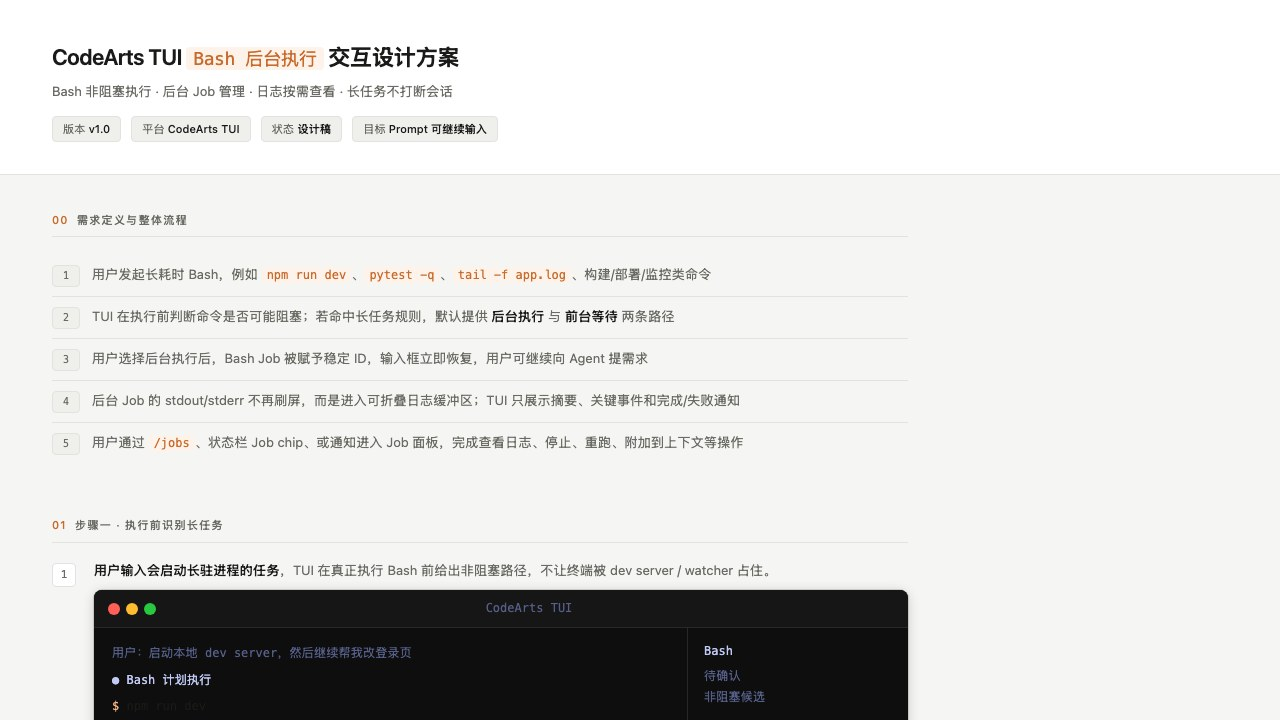
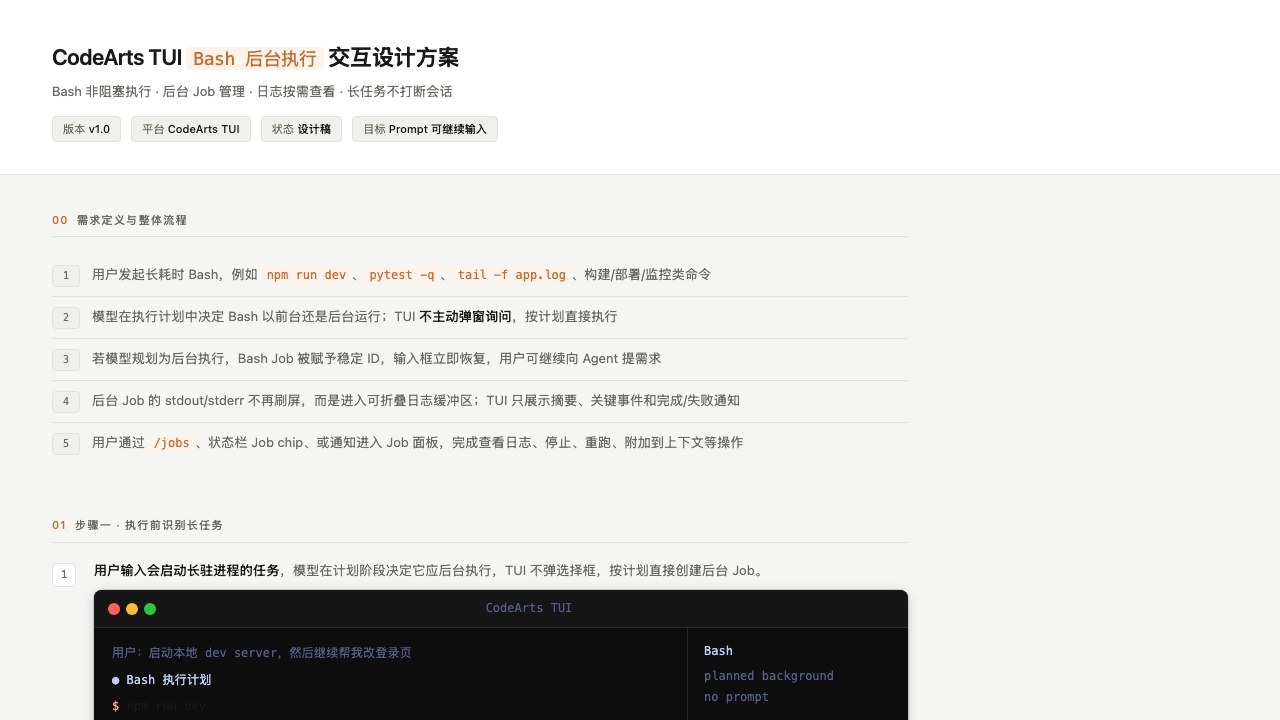
Remove Bash background prompts

diff --git a/codearts-bash-background-design.html b/codearts-bash-background-design.html
@@ -332,40 +332,6 @@
   .oc-alert .a-body { color:var(--t-dim); }
   .oc-alert .a-body b { color:var(--t-white); font-weight:400; }
 
-  .modal-wrap {
-    margin:8px auto;
-    background:var(--t-bg3);
-    border:1px solid #3a3a3a;
-    border-radius:4px;
-    overflow:hidden;
-    max-width:460px;
-  }
-  .modal-hdr {
-    padding:10px 16px 8px;
-    display:flex;
-    align-items:baseline;
-    justify-content:space-between;
-  }
-  .modal-title { font-size:13px; color:var(--t-white); }
-  .modal-esc { font-size:11px; color:var(--t-dim); }
-  .modal-body { padding:0 12px 12px; }
-  .choice {
-    display:flex;
-    align-items:center;
-    justify-content:space-between;
-    gap:12px;
-    padding:7px 10px;
-    font-size:12px;
-    color:var(--t-text);
-  }
-  .choice.selected {
-    background:var(--t-orange);
-    color:#1a0800;
-    border-radius:3px;
-  }
-  .choice .right { font-size:11px; color:var(--t-dim); }
-  .choice.selected .right { color:#1a0800; opacity:.62; }
-
   .log-panel {
     border:1px solid var(--t-border2);
     background:var(--t-bg3);
@@ -401,6 +367,45 @@
     line-height:1.65;
   }
   .log-summary b { color:var(--t-cyan); font-weight:400; }
+
+  .plan-card {
+    border:1px solid var(--t-border2);
+    background:var(--t-bg3);
+    border-radius:5px;
+    overflow:hidden;
+    margin:7px 0;
+  }
+  .plan-head {
+    display:flex;
+    align-items:center;
+    justify-content:space-between;
+    gap:12px;
+    padding:8px 10px;
+    border-bottom:1px solid var(--t-border);
+    font-size:11px;
+    color:var(--t-dim);
+  }
+  .plan-title { color:var(--t-white); }
+  .plan-body {
+    padding:9px 10px;
+    display:grid;
+    grid-template-columns:92px 1fr;
+    gap:5px 10px;
+    font-size:11px;
+    line-height:1.65;
+  }
+  .plan-k { color:var(--t-dim); }
+  .plan-v { color:var(--t-text); }
+  .hint-bar {
+    border-left:3px solid var(--t-blue);
+    background:rgba(92,156,245,.06);
+    color:var(--t-dim);
+    padding:7px 10px;
+    font-size:11px;
+    line-height:1.65;
+    margin-top:6px;
+  }
+  .hint-bar b { color:var(--t-cyan); font-weight:400; }
 
   .job-panel {
     max-width:560px;
@@ -543,11 +548,11 @@
       </div>
       <div class="flow-row">
         <div class="flow-n">2</div>
-        <div class="flow-b">TUI 在执行前判断命令是否可能阻塞；若命中长任务规则，默认提供 <b>后台执行</b> 与 <b>前台等待</b> 两条路径</div>
+        <div class="flow-b">模型在执行计划中决定 Bash 以前台还是后台运行；TUI <b>不主动弹窗询问</b>，按计划直接执行</div>
       </div>
       <div class="flow-row">
         <div class="flow-n">3</div>
-        <div class="flow-b">用户选择后台执行后，Bash Job 被赋予稳定 ID，输入框立即恢复，用户可继续向 Agent 提需求</div>
+        <div class="flow-b">若模型规划为后台执行，Bash Job 被赋予稳定 ID，输入框立即恢复，用户可继续向 Agent 提需求</div>
       </div>
       <div class="flow-row">
         <div class="flow-n">4</div>
@@ -565,7 +570,7 @@
     <div class="step">
       <div class="step-num">1</div>
       <div class="step-content">
-        <div class="step-label"><b>用户输入会启动长驻进程的任务</b>，TUI 在真正执行 Bash 前给出非阻塞路径，不让终端被 dev server / watcher 占住。</div>
+        <div class="step-label"><b>用户输入会启动长驻进程的任务</b>，模型在计划阶段决定它应后台执行，TUI 不弹选择框，按计划直接创建后台 Job。</div>
         <div class="tui-wrap">
           <div class="tui-bar">
             <div class="tui-dots"><span class="tui-dot r"></span><span class="tui-dot y"></span><span class="tui-dot g"></span></div>
@@ -574,37 +579,31 @@
           <div class="tui-main">
             <div class="tui-msgs">
               <div class="tm tc-dim">用户：启动本地 dev server，然后继续帮我改登录页</div>
-              <div class="tm tc-white">● Bash 计划执行</div>
+              <div class="tm tc-white">● Bash 执行计划</div>
               <div class="tm"><span class="tc-orange">$</span> npm run dev</div>
               <div class="tm-gap"></div>
-              <div class="oc-alert warning">
-                <div class="a-title">检测到可能长期运行的命令</div>
-                <div class="a-body"><b>npm run dev</b> 通常不会自动退出。建议放入后台，TUI 会继续接收你的输入。</div>
-              </div>
-              <div class="modal-wrap">
-                <div class="modal-hdr">
-                  <div class="modal-title">选择执行方式</div>
-                  <div class="modal-esc">Esc 取消</div>
-                </div>
-                <div class="modal-body">
-                  <div class="choice selected"><span>后台执行并继续对话</span><span class="right">推荐 · Enter</span></div>
-                  <div class="choice"><span>前台执行，等待命令结束</span><span class="right">F</span></div>
-                  <div class="choice"><span>编辑命令参数</span><span class="right">E</span></div>
+              <div class="plan-card">
+                <div class="plan-head"><span class="plan-title">模型规划 · 后台执行</span><span class="job-chip run"><span class="job-dot"></span>will run</span></div>
+                <div class="plan-body">
+                  <div class="plan-k">原因</div><div class="plan-v">dev server 通常长驻，不应阻塞后续编辑任务</div>
+                  <div class="plan-k">执行方式</div><div class="plan-v">直接创建后台 Job，不等待用户确认</div>
+                  <div class="plan-k">输出策略</div><div class="plan-v">关键行摘要展示，完整日志进入 buffer</div>
                 </div>
               </div>
+              <div class="hint-bar">用户仍可主动覆盖：输入 <b>/bash foreground</b>、在 Job chip 中选择“转前台”，或在具体命令里显式指定前台执行。</div>
             </div>
             <div class="tui-sidebar">
-              <div class="sb-sec"><div class="sb-title">Bash</div><div class="sb-body">待确认<br>非阻塞候选</div></div>
+              <div class="sb-sec"><div class="sb-title">Bash</div><div class="sb-body">planned background<br>no prompt</div></div>
               <div class="sb-sec"><div class="sb-title">Jobs</div><div class="sb-body">0 running<br>0 completed</div></div>
             </div>
           </div>
           <div class="tui-input"><div class="tui-iline">❯ 启动 dev server，然后继续改登录页<span class="t-cursor"></span></div></div>
           <div class="tui-status">
-            <div class="tui-sl"><span class="agent-lbl">Agent</span><span>等待 Bash 执行方式</span></div>
-            <div class="tui-sr"><span><span class="t-kbd">Enter</span> 后台</span><span><span class="t-kbd">F</span> 前台</span></div>
+            <div class="tui-sl"><span class="agent-lbl">Agent</span><span>按模型计划执行 Bash</span></div>
+            <div class="tui-sr"><span>无弹窗</span><span>不中断自动执行</span></div>
           </div>
         </div>
-        <div class="step-note">触发规则不只看命令文本，也看历史运行画像：监听端口、watch 模式、tail/log、server、daemon、无超时输出但进程存活等，都可建议后台执行。</div>
+        <div class="step-note">原则：是否后台执行属于模型规划的一部分，不作为默认弹窗打断用户；只有危险命令、权限升级、外部副作用等安全类决策仍需确认。</div>
       </div>
     </div>
   </div>
@@ -719,7 +718,7 @@
     <div class="step">
       <div class="step-num">4</div>
       <div class="step-content">
-        <div class="step-label"><b>用户一开始选择前台执行，但 Bash 已运行超过 15 秒仍未结束</b>。TUI 在不抢焦点的前提下给出“转入后台”提示，用户点击或按 <span class="kbd">B</span> 后立即恢复输入权。</div>
+        <div class="step-label"><b>模型规划为前台执行，但 Bash 已运行超过 15 秒仍未结束</b>。系统自动将其转为后台 Job，不再弹窗询问；用户仍可主动转回前台、停止或查看日志。</div>
         <div class="tui-wrap">
           <div class="tui-bar">
             <div class="tui-dots"><span class="tui-dot r"></span><span class="tui-dot y"></span><span class="tui-dot g"></span></div>
@@ -727,39 +726,29 @@
           </div>
           <div class="tui-main">
             <div class="tui-msgs">
-              <div class="tm tc-dim">用户选择：前台执行，等待命令结束</div>
+              <div class="tm tc-dim">模型规划：前台执行，等待命令结束</div>
               <div class="tm"><span class="tc-orange">$</span> pytest tests/e2e --headed</div>
               <div class="tm tc-dim">collecting tests/login.spec.ts ...</div>
               <div class="tm tc-dim">chromium started · running login flow</div>
               <div class="tm tc-yellow">⟳ 已运行 15s，进程仍在输出</div>
-              <div class="oc-alert warning">
-                <div class="a-title">这个前台 Bash 可能还会继续运行</div>
-                <div class="a-body">可将当前进程转为后台 Job，日志继续缓冲，TUI 立即恢复输入。</div>
+              <div class="oc-alert info">
+                <div class="a-title">已自动转入后台</div>
+                <div class="a-body">Job <b>#13 pytest tests/e2e --headed</b> · 保留 PID 49318 · 日志继续缓冲 · 输入框已恢复</div>
               </div>
-              <div class="modal-wrap">
-                <div class="modal-hdr">
-                  <div class="modal-title">转入后台执行？</div>
-                  <div class="modal-esc">Esc 继续等待</div>
-                </div>
-                <div class="modal-body">
-                  <div class="choice selected"><span>转入后台并继续其他操作</span><span class="right">B / Enter</span></div>
-                  <div class="choice"><span>继续前台等待</span><span class="right">W</span></div>
-                  <div class="choice"><span>停止当前 Bash</span><span class="right">S</span></div>
-                </div>
-              </div>
+              <div class="hint-bar">这是非阻塞状态提示，不抢焦点、不等待选择。用户可通过状态栏 Job chip 或 <b>/jobs #13 foreground</b> 主动转回前台。</div>
             </div>
             <div class="tui-sidebar">
-              <div class="sb-sec"><div class="sb-title">Foreground</div><div class="sb-body"><span class="tc-yellow">pytest tests/e2e</span><br>15s elapsed<br>stdout active</div></div>
-              <div class="sb-sec"><div class="sb-title">Suggestion</div><div class="sb-body">backgroundable<br>logs buffered</div></div>
+              <div class="sb-sec"><div class="sb-title">Jobs</div><div class="sb-body"><span class="tc-yellow">#13 running</span><br>auto backgrounded<br>15s threshold</div></div>
+              <div class="sb-sec"><div class="sb-title">Override</div><div class="sb-body">foreground<br>stop<br>logs</div></div>
             </div>
           </div>
-          <div class="tui-input"><div class="tui-iline">❯ Bash running… <span class="tc-dim">press B to background</span><span class="t-cursor"></span></div></div>
+          <div class="tui-input"><div class="tui-iline">❯ 继续检查登录页截图差异<span class="t-cursor"></span></div></div>
           <div class="tui-status">
-            <div class="tui-sl"><span class="agent-lbl">Bash</span><span>前台运行超过 15s</span></div>
-            <div class="tui-sr"><span><span class="t-kbd">B</span> 转后台</span><span><span class="t-kbd">W</span> 等待</span><span><span class="t-kbd">S</span> 停止</span></div>
+            <div class="tui-sl"><span class="agent-lbl">Agent</span><span class="job-chip run"><span class="job-dot"></span>#13 running</span></div>
+            <div class="tui-sr"><span><span class="t-kbd">/jobs #13 foreground</span> 转前台</span><span><span class="t-kbd">S</span> stop</span></div>
           </div>
         </div>
-        <div class="step-note">转后台不是重新执行命令，而是把现有前台进程接管为 Job：保留 PID、cwd、已产生的输出和退出状态监听。成功后提示 <code>Job #13 已转入后台</code>。</div>
+        <div class="step-note">转后台不是重新执行命令，而是把现有前台进程接管为 Job：保留 PID、cwd、已产生的输出和退出状态监听。提示只说明状态变化，不要求用户决策。</div>
       </div>
     </div>
   </div>
@@ -844,9 +833,9 @@
           <tr><th>模块</th><th>规则</th><th>交互表现</th></tr>
         </thead>
         <tbody>
-          <tr><td>触发方式</td><td>显式后台：命令后加 <code>&amp;</code>、选择“后台执行”、或输入 <code>/bash --bg</code></td><td>创建 Job ID，输入框立即恢复</td></tr>
-          <tr><td>自动建议</td><td>命中 server/watch/tail/daemon/长时间无退出等模式时建议后台化</td><td>弹出执行方式选择，不直接静默后台</td></tr>
-          <tr><td>前台转后台</td><td>前台 Bash 执行超过 15 秒仍未结束，且进程仍存活或持续输出</td><td>显示“转入后台”提示条，按 <span class="kbd">B</span> 或点击按钮接管为后台 Job</td></tr>
+          <tr><td>触发方式</td><td>模型规划为后台执行、命令后加 <code>&amp;</code>、或用户输入 <code>/bash --bg</code></td><td>直接创建 Job ID，输入框立即恢复；不弹执行方式选择</td></tr>
+          <tr><td>模型规划</td><td>模型根据任务目标、命令画像和后续步骤决定前台/后台</td><td>按计划执行，只给内联状态说明，不主动打断</td></tr>
+          <tr><td>前台转后台</td><td>前台 Bash 执行超过 15 秒仍未结束，且进程仍存活或持续输出</td><td>自动接管为后台 Job，并显示轻量状态提示；用户可主动转回前台</td></tr>
           <tr><td>日志策略</td><td>stdout/stderr 进入 ring buffer；默认只展示关键行、错误片段与 AI 摘要</td><td>避免刷屏，按 <span class="kbd">L</span> 展开完整日志</td></tr>
           <tr><td>上下文策略</td><td>默认只把 Job 摘要给 Agent；完整日志需用户确认附加</td><td>按 <span class="kbd">A</span> attach summary，避免污染上下文</td></tr>
           <tr><td>中断规则</td><td><span class="kbd">Ctrl+C</span> 只取消当前前台输入，不杀后台 Job</td><td>停止 Job 必须在 <code>/jobs</code> 里按 <span class="kbd">S</span> 二次确认</td></tr>

diff --git a/AGENTS.md b/AGENTS.md
@@ -462,6 +462,7 @@ grep -n "id=\"s-m" file.html | head    # 快速列出所有 section
 
 | commit | 内容 |
 |---|---|
+| *(2026-08-20)* | `codearts-bash-background-design.html` 根据产品反馈去弹窗化：删除“选择执行方式”和“前台 15s 后是否转后台”两处主动弹窗；改为模型规划决定前台/后台并直接执行，TUI 只给内联状态说明；前台 Bash 超过 15s 后自动接管为后台 Job，用户可通过 `/jobs #id foreground`、Job chip 或 stop/logs 主动管理。 |
 | *(2026-08-20)* | `codearts-bash-background-design.html` 补齐需求场景 4：新增“前台任务超过 15 秒后转入后台”独立章节，展示前台 Bash 运行超过 15s 后出现“转入后台 / 继续等待 / 停止”选择，说明按 B 或点击按钮将现有进程接管为后台 Job，并在规则表中补充前台转后台触发条件。 |
 | *(2026-08-20)* | 新增 `codearts-bash-background-design.html`：CodeArts TUI Bash 非阻塞后台执行交互方案，覆盖长耗时命令识别、后台执行确认、Job chip/Sidebar 状态、`/jobs` 面板、日志按需展开、完成/失败通知、上下文附加与 Ctrl+C 不误杀后台任务等规则；首页 CLI 分组新增对应卡片，总页面数更新为 26，并生成 `assets/page-thumbs/codearts-bash-background.jpg` 缩略图。 |
 | *(2026-07-08)* | GitHub Pages 首页新增 **分析与探索** 分组，总卡片数更新为 22；新增 `cli-analysis-report.html`、`tp-context/startup/intent/execute/review/multiagent/wrapup.html`、`ai-dev-tools-design-original.html`、`hai-cli-design.html`、`hai-operator-design.html`、`ux-in-ai-community-report.html`、`style-demos.html`、`terminal_theme_inspector_v2.html`；`sharing-slides.html` / `sharing-slides-print.html` 属于沉淀材料，不放入分析与探索分组。 |
